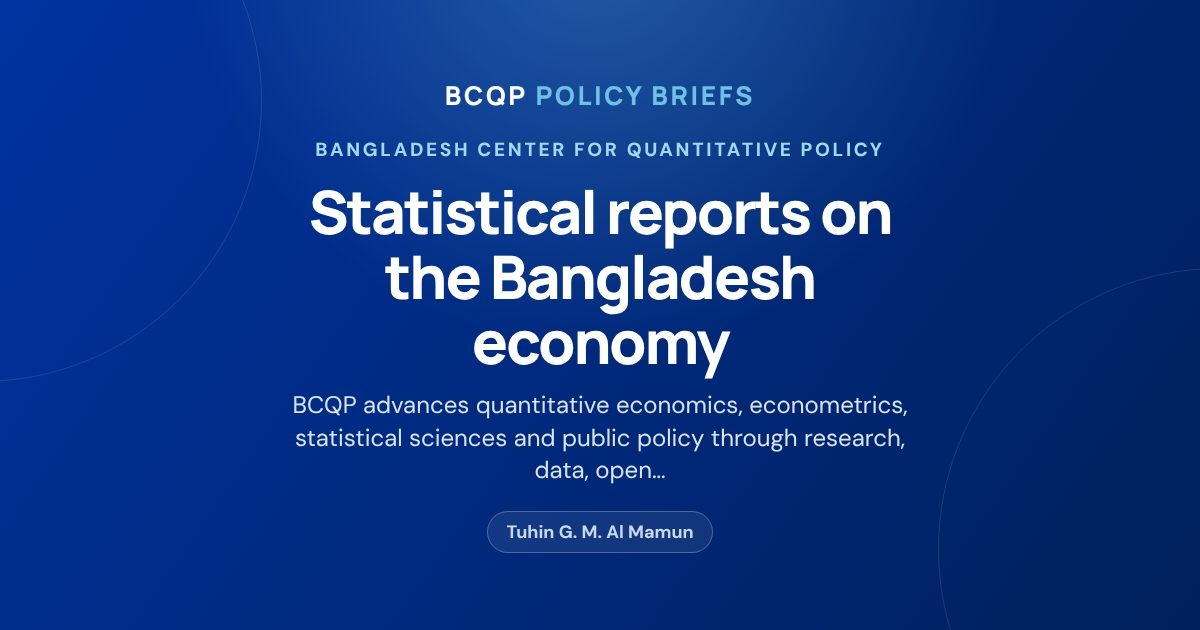
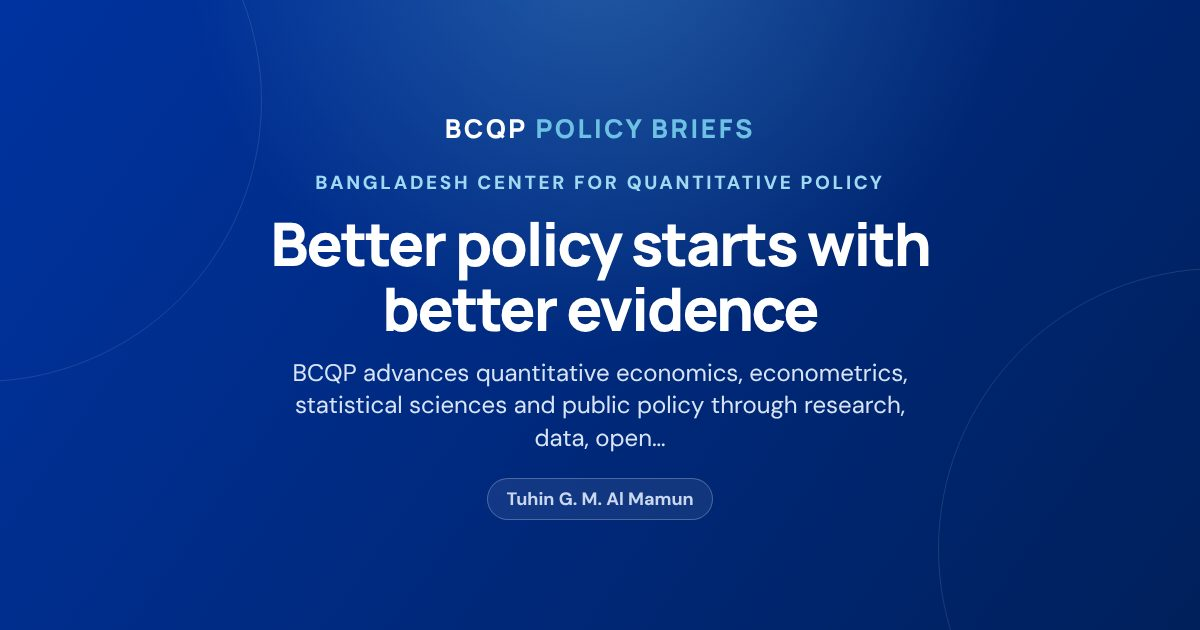
New slogan: Better policy starts with better evidence
Claude-Session: https://claude.ai/code/session_013F7bmve14MSBrUXNyNqHBw

Changed region(s): [[0.2158, 0.1206, 0.8017, 0.8746]]

diff --git a/index.html b/index.html
@@ -17,7 +17,7 @@
 <meta property="og:type" content="website">
 <meta property="og:url" content="https://bcqp.github.io/center/">
 <meta name="twitter:card" content="summary_large_image">
-<meta property="og:image" content="https://bcqp.github.io/center/assets/og/index.jpg"><meta property="og:image:secure_url" content="https://bcqp.github.io/center/assets/og/index.jpg"><meta property="og:image:width" content="1200"><meta property="og:image:height" content="630"><meta property="og:image:type" content="image/jpeg"><meta property="og:image:alt" content="BCQP: Statistical reports on the Bangladesh economy"><meta name="twitter:image" content="https://bcqp.github.io/center/assets/og/index.jpg"><meta name="twitter:image:alt" content="BCQP: Statistical reports on the Bangladesh economy">
+<meta property="og:image" content="https://bcqp.github.io/center/assets/og/index.jpg"><meta property="og:image:secure_url" content="https://bcqp.github.io/center/assets/og/index.jpg"><meta property="og:image:width" content="1200"><meta property="og:image:height" content="630"><meta property="og:image:type" content="image/jpeg"><meta property="og:image:alt" content="BCQP: Better policy starts with better evidence"><meta name="twitter:image" content="https://bcqp.github.io/center/assets/og/index.jpg"><meta name="twitter:image:alt" content="BCQP: Better policy starts with better evidence">
 <meta name="twitter:title" content="BCQP | Quantitative Economics, Econometric Policy Analysis &amp; Public Policy in Bangladesh">
 <meta name="twitter:description" content="BCQP advances quantitative economics, econometrics, statistical sciences and public policy through research, data, open analytical tools, education and collaboration in Bangladesh and internationally.">
 </head>
@@ -25,8 +25,8 @@
 <main id="main">
 <section class="hero"><div class="wrap">
 <div class="eyebrow">Quantitative economics · Econometrics · Public policy</div>
-<h1>Understanding economic and social policy through quantitative evidence.</h1>
-<p>An independent research center on quantitative economics and public policy, publishing replicable statistical reports on Bangladesh.</p>
+<h1>Better policy starts with better evidence.</h1>
+<p>Replicable, source-checked statistical reports on the Bangladesh economy, from an independent research center.</p>
 <p class="byline">Founded by <a href="tuhin-al-mamun/index.html">Dr. Tuhin G. M. Al Mamun</a> and Dr. Abdur Rahim.</p>
 <div class="btns"><a class="btn" href="briefs/index.html">Explore research</a><a class="btn ghost" href="research/index.html">Research agenda</a></div>
 </div></section>

diff --git a/assets/site.js b/assets/site.js
@@ -65,7 +65,7 @@
   if (hdr) {
     hdr.innerHTML =
       '<a class="skip" href="#main">Skip to main content</a>' +
-      '<div class="topbar">Quantitative evidence. Economic research. Better policy.</div>' +
+      '<div class="topbar">Better policy starts with better evidence.</div>' +
       '<header class="masthead"><div class="wrap">' +
       '<a class="brand" href="' + root + 'index.html"><span class="logo">BCQP</span><span><b>Bangladesh Center for Quantitative Policy</b><small>BCQP · Policy briefs</small></span></a>' +
       '<div class="tools"><a class="iconbtn" href="' + root + 'search/index.html" aria-label="Search the site"><svg width="18" height="18" viewBox="0 0 24 24" fill="none" stroke="currentColor" stroke-width="2" aria-hidden="true"><circle cx="11" cy="11" r="7"/><path d="m20 20-3.5-3.5"/></svg><span>Search</span></a>' +
@@ -101,7 +101,7 @@
     ftr.innerHTML =
       '<footer class="site"><div class="wrap"><div class="fgrid">' +
       '<div class="about"><b>Bangladesh Center for Quantitative Policy</b><p>BCQP Policy Briefs is the center’s public-policy series on Bangladesh. Every figure is checked against an official source before publication, and every estimate is run in an open, reproducible engine.</p>' +
-      '<p class="mono tiny">Quantitative evidence. Economic research. Better policy.</p></div>' +
+      '<p class="mono tiny">Better policy starts with better evidence.</p></div>' +
       fcol(byKey.about) + fcol(byKey.briefs) + fcol(byKey.data) + fcol(byKey.methodology) + fcol(byKey.policies) + miscHtml +
       '</div><p class="legal">BCQP is an independent research initiative. It is not a government body and is not affiliated with Bangladesh Bank, the Bangladesh Bureau of Statistics or the Government of Bangladesh. Founded and written by <a href="' + root + 'tuhin-al-mamun/">Dr. Tuhin G. M. Al Mamun</a>; views are the author’s own. Archived at <a href="https://doi.org/10.5281/zenodo.24215521">doi.org/10.5281/zenodo.24215521</a>. Site data last updated ' +
       esc(fmtDate(D.updated)) + ".</p></div></footer>";

diff --git a/tools/og_pages.py b/tools/og_pages.py
@@ -24,7 +24,7 @@ for p in sorted(ROOT.rglob("*.html")):
     if not t or not d: continue
     title = html.unescape(t.group(1)); desc = html.unescape(d.group(1))
     short = re.sub(r"\s*\|\s*BCQP.*$", "", title)
-    if rel == "index.html": short = "Statistical reports on the Bangladesh economy"
+    if rel == "index.html": short = "Better policy starts with better evidence"
     pages.append(dict(p=p, rel=rel, title=title, short=short, desc=desc, out=card_path(rel)))
 def tags(c):
     u = SITE + (c["rel"][:-10] if c["rel"].endswith("index.html") else c["rel"]); img = SITE + c["out"]; e = lambda x: html.escape(x, quote=True)
